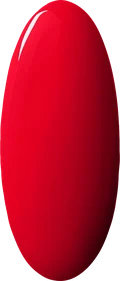
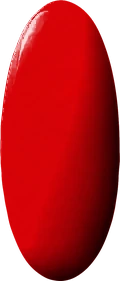
Recolour the Shop by color swatches from the reference polish sheet
Each of the 14 ovals now takes its colour (and, for glitter, its texture)
from the best-matching swatch on the reference contact sheet; the oval
shape, gloss and shading are kept. Image URLs carry ?v=2 so browsers drop
the cached old ovals. The same images feed the home page's colour picker.

Claude-Session: https://claude.ai/code/session_01FzUXHFdxJXvDWYEUa5369p

diff --git a/js/home.js b/js/home.js
@@ -80,11 +80,11 @@
   // ---------- colour picker (mobile "Scegli il tuo Mood", desktop "Shop by color") ----------
   const moodRow = $('#mood-row');
   moodRow.innerHTML = MOODS.map(([label, f]) => `<button class="mood-item" data-name="${label}" aria-pressed="false">
-    <img src="img/mood-${f}.webp" alt="" width="53" height="125" loading="lazy" decoding="async"><span>${label}</span></button>`).join('');
+    <img src="img/mood-${f}.webp?v=2" alt="" width="53" height="125" loading="lazy" decoding="async"><span>${label}</span></button>`).join('');
   attachProgress(moodRow);
   const colorRow = $('#color-row');
   colorRow.innerHTML = MOODS.map(([label, f]) => `<a class="color-item" href="catalogo.html?colore=${encodeURIComponent(label)}" aria-label="${label}">
-    <img src="img/mood-${f}.webp" alt="" width="50" height="122" loading="lazy" decoding="async"><span>color</span></a>`).join('');
+    <img src="img/mood-${f}.webp?v=2" alt="" width="50" height="122" loading="lazy" decoding="async"><span>color</span></a>`).join('');
   function pickMood(item, { scroll = false } = {}) {
     $$('.mood-item').forEach(m => m.setAttribute('aria-pressed', m === item));
     toast(`Colore: ${item.dataset.name}`);

diff --git a/js/catalog.js b/js/catalog.js
@@ -184,7 +184,7 @@
   // ---------- "Shop by color" (replaces the banner on ?cat=semipermanente): a swatch filters the grid in place, tapping it again clears ----------
   const shopRow = $('#cat-shop-row');
   shopRow.innerHTML = MOODS.map(([label, f]) => `<button type="button" class="cs-item" data-mood="${label}" aria-pressed="false">
-    <img src="img/mood-${f}.webp" alt="" width="51" height="122" decoding="async"><span>${label}</span></button>`).join('');
+    <img src="img/mood-${f}.webp?v=2" alt="" width="51" height="122" decoding="async"><span>${label}</span></button>`).join('');
   shopRow.addEventListener('click', e => {
     const m = e.target.closest('[data-mood]'); if (!m) return;
     if (m.getAttribute('aria-pressed') === 'true') { st.mood = null; st.colors.clear(); }

diff --git a/catalogo.html b/catalogo.html
@@ -207,6 +207,6 @@
 <noscript><p style="padding:24px;text-align:center;font:600 15px system-ui">Per vedere questo sito abilita JavaScript.</p></noscript>
 <script src="js/site.js?v=0c7bcff6"></script>
 <script src="js/product.js?v=82b8188a"></script>
-<script src="js/catalog.js?v=95d0a9ba"></script>
+<script src="js/catalog.js?v=733310a5"></script>
 </body>
 </html>

diff --git a/index.html b/index.html
@@ -264,6 +264,6 @@
 </div>
 <noscript><p style="padding:24px;text-align:center;font:600 15px system-ui">Per vedere questo sito abilita JavaScript.</p></noscript>
 <script src="js/site.js?v=0c7bcff6"></script>
-<script src="js/home.js?v=74edc9de"></script>
+<script src="js/home.js?v=a7d570e9"></script>
 </body>
 </html>
